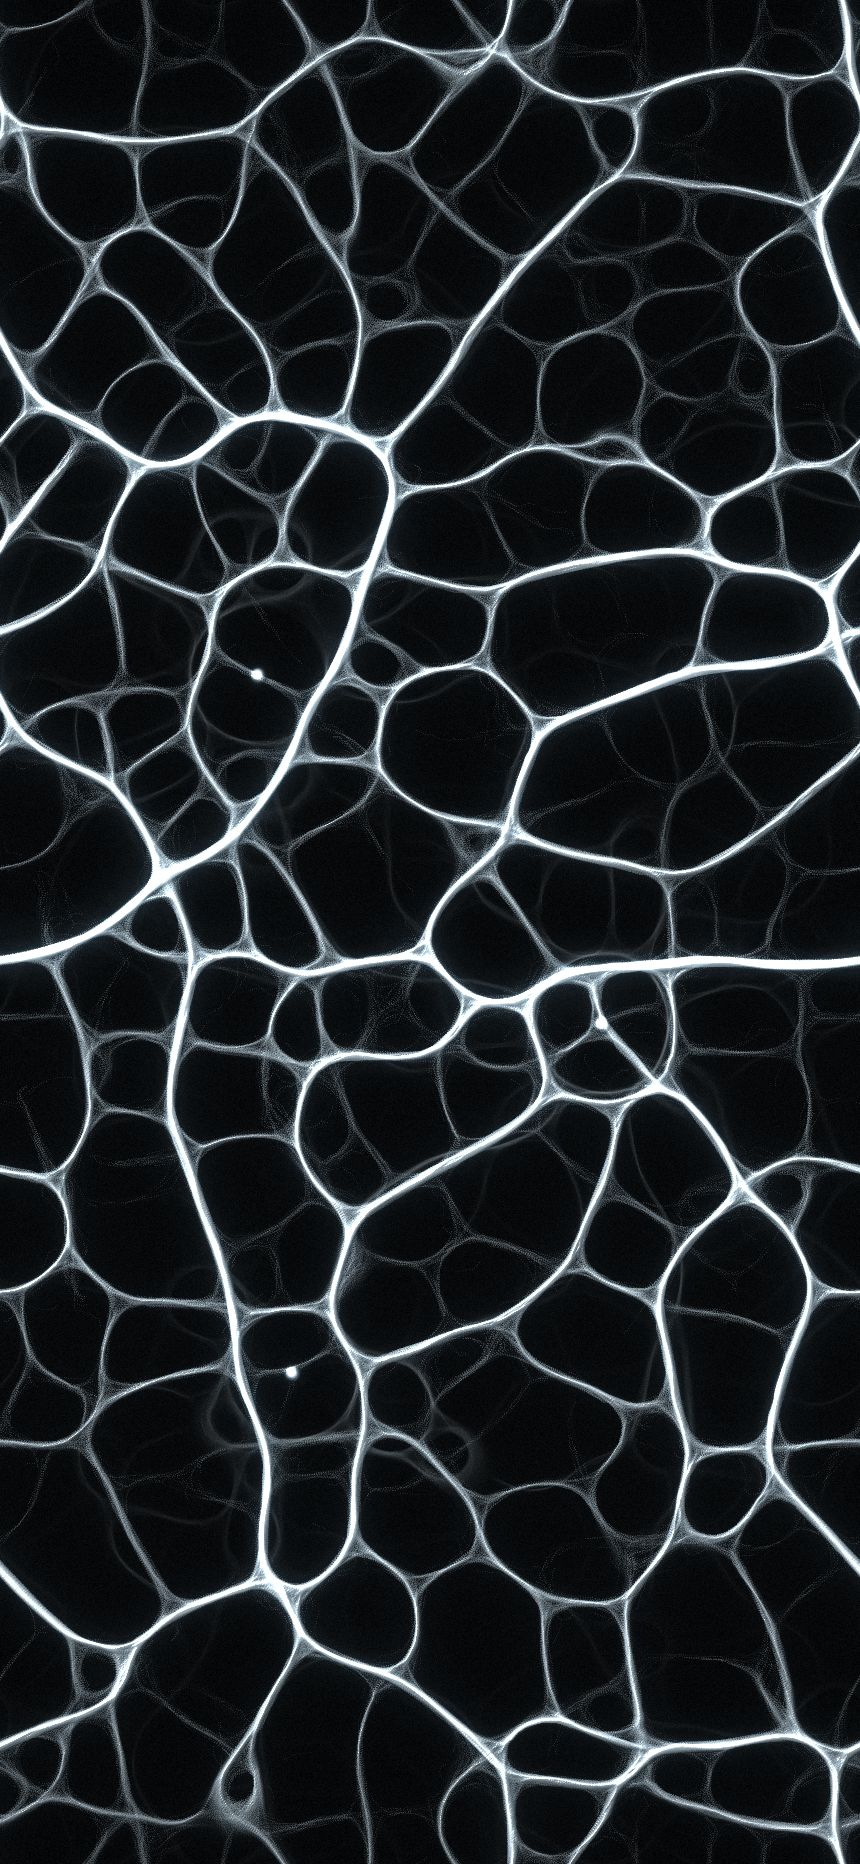
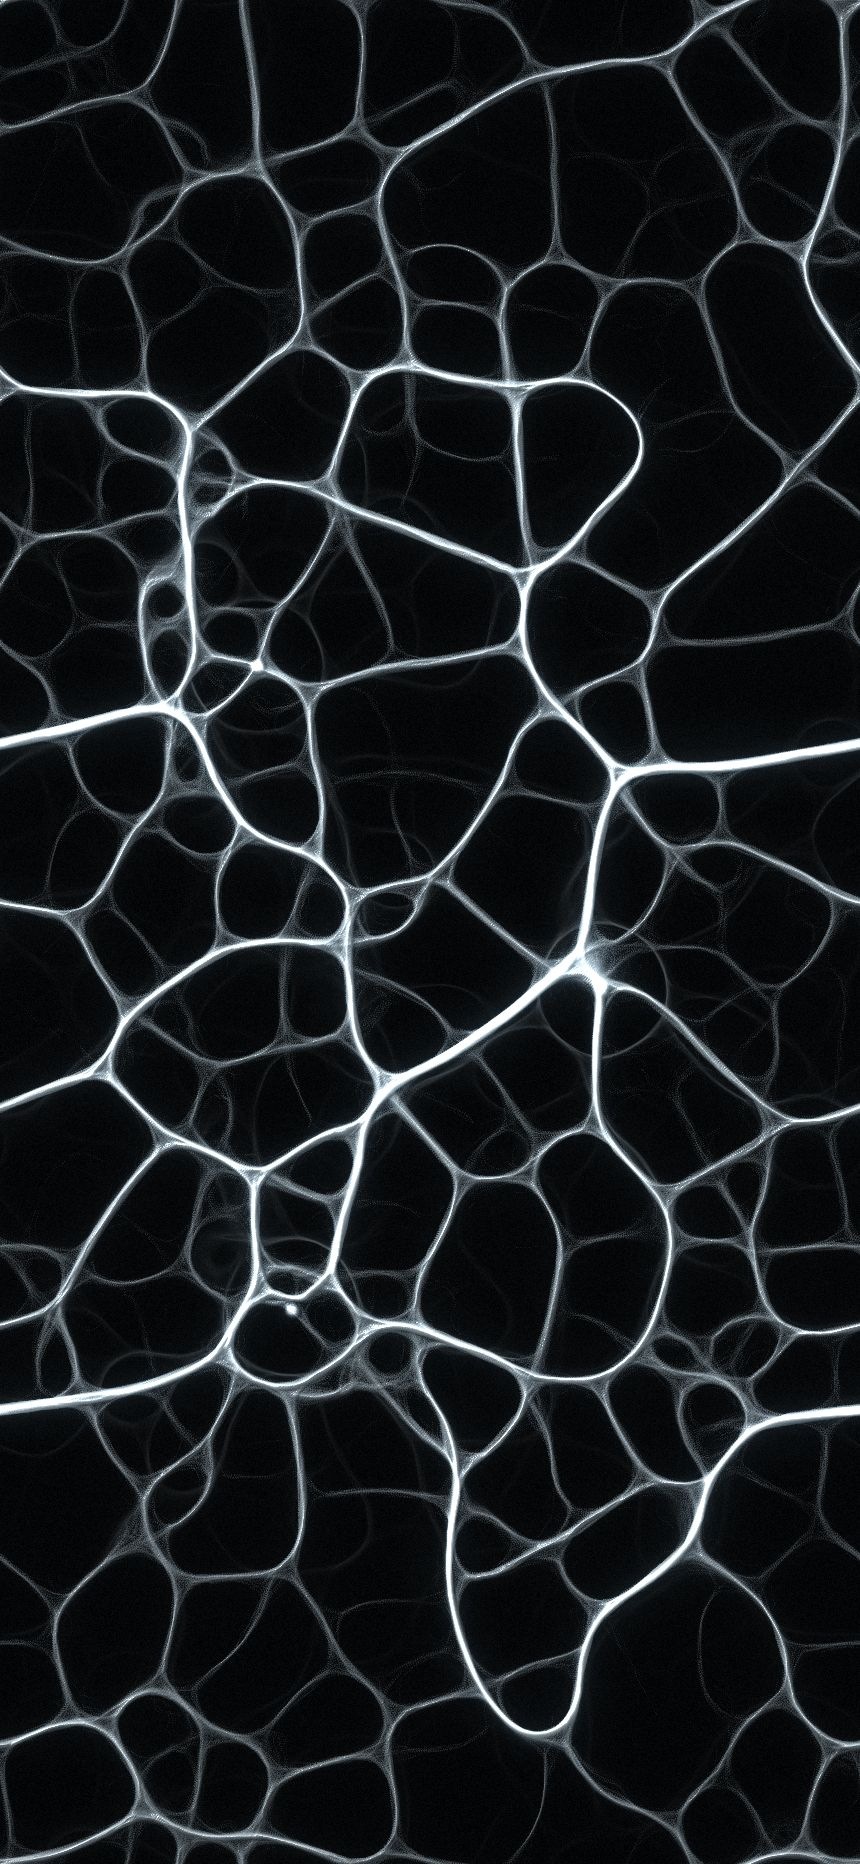
Calmer field behind the text, glowing rings
- Field brightness at 72% and a darker glass tint, so labels and window
  text read clearly; stronger dark halos under node and colony labels
- Node and colony rings have a soft glow that slowly breathes
  (opacity only; off with Reduce Motion)
- Poster images re-rendered at the new brightness

diff --git a/style.css b/style.css
@@ -109,6 +109,7 @@ body.poster.list::before { opacity: 0.22; }
 body.colony-open .colony-item { opacity: 0; visibility: hidden; }
 .colony { position: relative; display: block; width: 56px; height: 56px; text-align: left; }
 .ring {
+  position: relative;
   display: grid; place-items: center;
   width: 56px; height: 56px; border-radius: 50%;
   border: 1px solid var(--accent);
@@ -125,7 +126,7 @@ body.colony-open .colony-item { opacity: 0; visibility: hidden; }
 .colony .label { left: 76px; max-width: 280px; }
 .colony .title { font-size: 18px; }
 .colony .meta { max-height: none; opacity: 1; color: #a9b6bd; }
-.colony .label { text-shadow: 0 0 14px var(--bg), 0 0 6px var(--bg), 0 0 3px var(--bg), 0 0 1px var(--bg); }
+.colony .label { text-shadow: 0 0 18px var(--bg), 0 0 8px var(--bg), 0 0 4px var(--bg), 0 0 2px var(--bg), 0 0 1px var(--bg); }
 .colony-item.flip .label { left: auto; right: 76px; text-align: right; }
 
 /* Project nodes: a glyph marker sits exactly on the node's x/y (where the simulation feeds) */
@@ -139,12 +140,29 @@ body:not(.list) .node-item.shown { opacity: 1; visibility: visible; }
   text-align: left;
 }
 .mark {
+  position: relative;
   display: grid; place-items: center;
   width: 36px; height: 36px; border-radius: 50%;
-  border: 1px solid rgba(191, 227, 242, 0.5);
+  border: 1px solid rgba(191, 227, 242, 0.75);
   background: var(--bg);
+  box-shadow: inset 0 0 8px rgba(191, 227, 242, 0.14);
   transition: border-color 0.2s ease, transform 0.2s ease;
 }
+/* A soft glow around node and colony rings that slowly breathes. Only its opacity animates,
+   which the compositor handles without repainting. */
+.mark::after, .ring::after {
+  content: ""; position: absolute; inset: -1px; border-radius: 50%; pointer-events: none;
+  box-shadow: 0 0 12px 1px rgba(191, 227, 242, 0.55), 0 0 3px rgba(191, 227, 242, 0.7);
+  opacity: 0.6;
+  animation: ring-glow 5s ease-in-out infinite;
+}
+.ring::after { box-shadow: 0 0 22px 2px rgba(191, 227, 242, 0.5), 0 0 4px rgba(191, 227, 242, 0.7); }
+.node-item:nth-child(3n + 2) .mark::after, .colony-item:nth-child(2) .ring::after { animation-delay: -1.7s; }
+.node-item:nth-child(3n) .mark::after, .colony-item:nth-child(3) .ring::after { animation-delay: -3.4s; }
+.node:hover .mark::after, .node.active .mark::after, .colony:hover .ring::after { opacity: 1; animation: none; }
+@keyframes ring-glow { 0%, 100% { opacity: 0.35; } 50% { opacity: 0.85; } }
+@media (prefers-reduced-motion: reduce) { .mark::after, .ring::after { animation: none; } }
+body.list .mark::after { display: none; }
 .glyph { width: 24px; height: 24px; fill: none; stroke: var(--ink); stroke-linecap: round; stroke-linejoin: round; transition: stroke 0.2s ease; }
 .glyph * { stroke-width: 1; vector-effect: non-scaling-stroke; }
 .label {
@@ -152,7 +170,8 @@ body:not(.list) .node-item.shown { opacity: 1; visibility: visible; }
   transform: translateY(calc(-50% + var(--dy, 0px))); /* --dy: nudge chosen by placeLabels() in main.js */
   display: grid; gap: 2px;
   width: max-content; max-width: 250px;
-  text-shadow: 0 0 10px var(--bg), 0 0 4px var(--bg), 0 0 2px var(--bg);
+  /* a dark halo under the text so it reads on bright filaments */
+  text-shadow: 0 0 16px var(--bg), 0 0 8px var(--bg), 0 0 4px var(--bg), 0 0 2px var(--bg), 0 0 1px var(--bg);
 }
 .no { font-family: var(--mono); font-size: 11px; color: var(--muted); }
 .title { font-size: 14px; font-weight: 500; line-height: 1.2; }
@@ -218,7 +237,7 @@ body.modal:not(.gl-glass) .top, body.modal:not(.gl-glass) main, body.modal:not(.
   width: min(1000px, 100vw - 80px); height: min(700px, 100vh - 80px);
   border-radius: 30px; /* GLASS_RADIUS in main.js */
   color: var(--ink);
-  text-shadow: 0 1px 12px rgba(5, 7, 10, 0.5);
+  text-shadow: 0 1px 12px rgba(5, 7, 10, 0.7), 0 0 2px rgba(5, 7, 10, 0.6);
 }
 .win[hidden] { display: none; }
 .win.small { width: min(560px, 100vw - 48px); height: fit-content; max-height: min(640px, 100vh - 80px); }

diff --git a/physarum.js b/physarum.js
@@ -19,6 +19,7 @@ window.Physarum = (function () {
     decay: 0.95,
     diffuse: 0.08,       // 0 = no blur, 1 = full 3x3 mean
     exposure: 0.13,      // trail value -> brightness
+    brightness: 0.72,    // overall field brightness; lower keeps the labels on top readable
     streakFade: 0.9,     // how long agent paths stay visible as hairs
     relief: 6.0,         // height-field strength for the lighting
     disturbRadius: 80,   // CSS px
@@ -165,7 +166,7 @@ uniform sampler2D trail;
 uniform sampler2D dust;
 uniform sampler2D glow;
 uniform vec2 res;
-uniform float exposure, relief, breath, signalSpeed;
+uniform float exposure, relief, breath, signalSpeed, brightness;
 uniform uint frame;
 uniform vec4 sig[${MAX_SIGNALS}];
 out vec4 o;
@@ -212,7 +213,8 @@ void main() {
   c += mix(silver * 0.8, white, t) * hair * (0.35 + 0.5 * diffuseL);
   c += vec3(0.75, 0.92, 1.0) * s * smoothstep(0.08, 0.5, t) * 1.3;
 
-  // vignette + film grain
+  // overall brightness, vignette + film grain
+  c *= brightness;
   vec2 q = (uv - 0.5) * vec2(res.x / res.y, 1.0);
   c *= smoothstep(1.15, 0.25, length(q));
   c += (rand(uvec2(gl_FragCoord.xy), frame) - 0.5) * 0.035;
@@ -264,7 +266,7 @@ void main() {
     c.r = frost(p + off * 1.15).r;
     c.b = frost(p + off * 0.85).b;
   }
-  c = c * 0.62 + vec3(0.030, 0.038, 0.046);
+  c = c * 0.48 + vec3(0.024, 0.030, 0.037); // darker tint: text on the glass stays readable
 
   vec2 L = length(light) > 1e-3 ? normalize(light) : vec2(-0.6, 0.8);
   float facing = abs(dot(n, L));
@@ -575,6 +577,7 @@ void main() { o = vec4(1.0, 0.0, 0.0, 1.0); }`;
       gl.uniform1f(ur.exposure, P.exposure);
       gl.uniform1f(ur.relief, P.relief);
       gl.uniform1f(ur.breath, breath);
+      gl.uniform1f(ur.brightness, P.brightness);
       gl.uniform1ui(ur.frame, frame);
       gl.uniform1f(ur.signalSpeed, P.signalSpeed * k);
       gl.uniform4fv(ur.sig, sig);

diff --git a/index.html b/index.html
@@ -8,7 +8,7 @@
   <link rel="preconnect" href="https://fonts.googleapis.com">
   <link rel="preconnect" href="https://fonts.gstatic.com" crossorigin>
   <link href="https://fonts.googleapis.com/css2?family=Instrument+Sans:wght@400;500;600&family=JetBrains+Mono:wght@400;500&display=swap" rel="stylesheet">
-  <link rel="stylesheet" href="style.css?v=f5d96a12">
+  <link rel="stylesheet" href="style.css?v=f24af87a">
 </head>
 <body>
   <canvas id="field" aria-hidden="true"></canvas>
@@ -50,7 +50,7 @@
   <script src="projects.js?v=339e0b98"></script>
   <script src="glyphs.js?v=8c4af774"></script>
   <script src="sound.js?v=5e7779a0"></script>
-  <script src="physarum.js?v=cd2d364e"></script>
+  <script src="physarum.js?v=6a88886e"></script>
   <script src="main.js?v=219b7a13"></script>
   <!-- Visitor statistics (cookieless): https://aykutdag.goatcounter.com -->
   <script data-goatcounter="https://aykutdag.goatcounter.com/count" async src="https://gc.zgo.at/count.js"></script>
